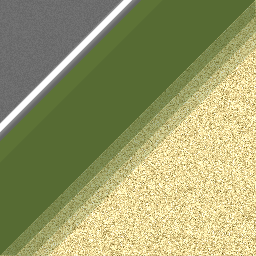
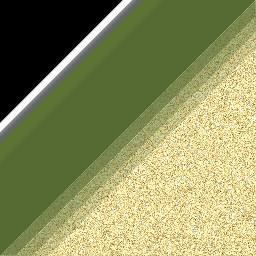
New asphalt engine.

Changed region(s): [[0.0, 0.0, 0.4688, 0.4688]]

diff --git a/src/game/track.cpp b/src/game/track.cpp
@@ -23,6 +23,7 @@
 #include <MCCamera>
 #include <MCGLShaderProgram>
 #include <MCSurface>
+#include <MCTextureManager>
 #include <cassert>
 
 Track::Track(TrackData * pTrackData)
@@ -125,6 +126,8 @@ void Track::render(MCCamera * pCamera)
     MCGLShaderProgram & prog = Renderer::instance().tileProgram();
     prog.bind();
 
+    MCSurface & asphalt = MCTextureManager::instance().surface("asphalt");
+
     MCFloat x1, y1; // Coordinates mapped to camera
 
     // Set common client state for all tiles using the same surface.
@@ -147,6 +150,14 @@ void Track::render(MCCamera * pCamera)
                     y1 = y;
                     pCamera->mapToCamera(x1, y1);
                     prog.translate(MCVector3dF(x1 + w / 2, y1 + h / 2, 0));
+
+                    if (pTile->hasAsphalt())
+                    {
+                        prog.rotate(0);
+                        asphalt.bindTexture();
+                        asphalt.renderVBOs(false);
+                    }
+
                     prog.rotate(pTile->rotation());
                     pSurface->bindTexture();
                     pSurface->renderVBOs(false);

diff --git a/src/game/tracktile.cpp b/src/game/tracktile.cpp
@@ -27,6 +27,7 @@ TrackTile::TrackTile(
 , m_surface(nullptr)
 , m_previewSurface(nullptr)
 , m_typeEnum(typeEnum)
+, m_hasAsphalt(false)
 {
 }
 
@@ -68,6 +69,29 @@ TrackTile::TileType TrackTile::tileTypeEnum() const
 void TrackTile::setTileTypeEnum(TrackTile::TileType type)
 {
     m_typeEnum = type;
+
+    switch (type)
+    {
+    case TT_CORNER_90:
+    case TT_CORNER_45_LEFT:
+    case TT_CORNER_45_RIGHT:
+    case TT_STRAIGHT:
+    case TT_STRAIGHT_45_MALE:
+    case TT_STRAIGHT_45_FEMALE:
+    case TT_SAND_GRASS_STRAIGHT:
+    case TT_SAND_GRASS_STRAIGHT_45_FEMALE:
+    case TT_FINISH:
+        m_hasAsphalt = true;
+        break;
+    default:
+        m_hasAsphalt = false;
+        break;
+    }
+}
+
+bool TrackTile::hasAsphalt() const
+{
+    return m_hasAsphalt;
 }
 
 TrackTile::~TrackTile()

diff --git a/src/game/tracktile.hpp b/src/game/tracktile.hpp
@@ -90,18 +90,19 @@ public:
     //! Set the type as an enum (performance optimization).
     void setTileTypeEnum(TileType type);
 
+    //! Returns true if the tile needs a separate asphalt background.
+    bool hasAsphalt() const;
+
 private:
 
     //! Disable the string-based type getter. Use tileTypeEnum() instead.
     const QString & tileType() const;
 
-    int m_rotation;
-
+    int         m_rotation;
     MCSurface * m_surface;
-
     MCSurface * m_previewSurface;
-
-    TileType m_typeEnum;
+    TileType    m_typeEnum;
+    bool        m_hasAsphalt;
 };
 
 #endif // TRACKTILE_HPP
